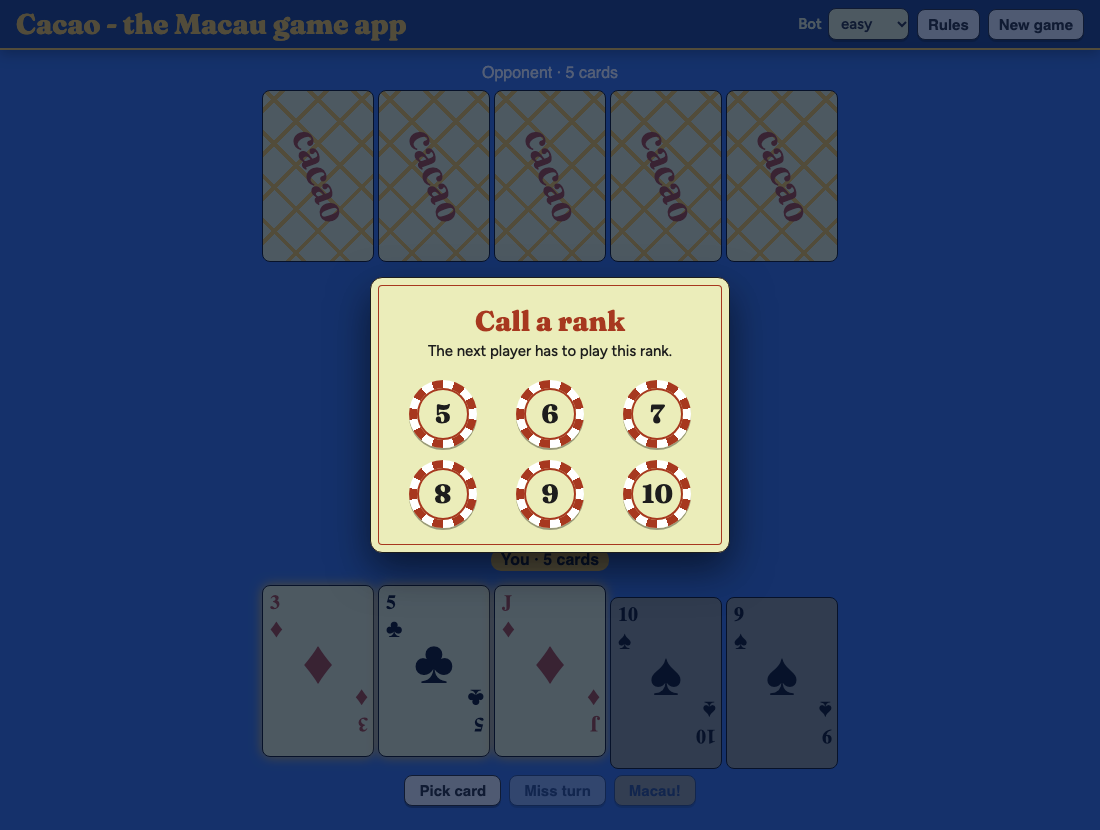
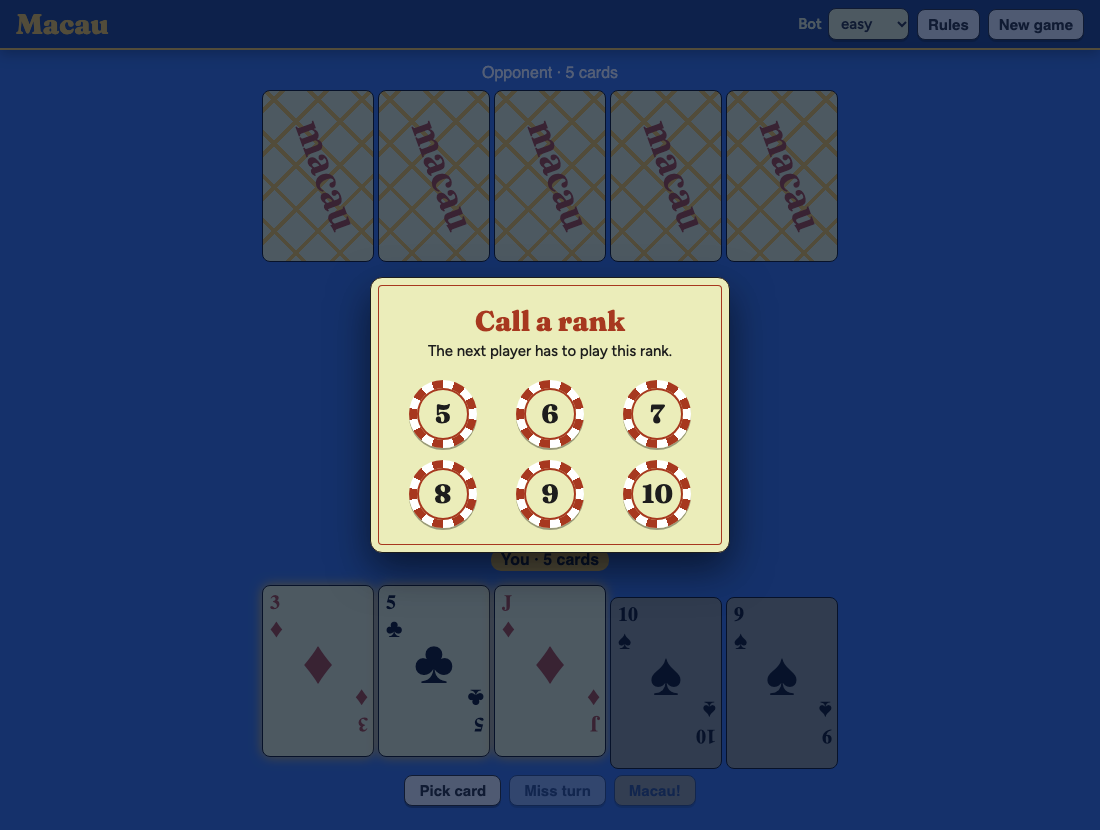
Rename the project to Macau card game
- Remove every reference to "cacao": project and package names, build
  output, CSS classes, page and header titles
- Print "macau" on the card backs
- GitHub Pages base path is /Macau-card-game/
- Retake the README screenshots

diff --git a/src/app/components/cards/card/card.component.html b/src/app/components/cards/card/card.component.html
@@ -9,11 +9,9 @@
 		[class]="{ 'suit--red': isRed, 'suit--black': isBlack }"
 		>{{ card.suit }}</span
 	>
-	<span
-		class="cacao"
-		[class]="{ 'cacao--red': isRed, 'cacao--black': isBlack }"
-		>{{ card.suit }}</span
-	>
+	<span class="pip" [class]="{ 'pip--red': isRed, 'pip--black': isBlack }">{{
+		card.suit
+	}}</span>
 	<span
 		class="suit suit--upside_down"
 		[class]="{ 'suit--red': isRed, 'suit--black': isBlack }"

diff --git a/karma.conf.js b/karma.conf.js
@@ -25,7 +25,7 @@ module.exports = function (config) {
 			suppressAll: true, // removes the duplicated traces
 		},
 		coverageReporter: {
-			dir: require("path").join(__dirname, "./coverage/cacao"),
+			dir: require("path").join(__dirname, "./coverage/macau-card-game"),
 			subdir: ".",
 			reporters: [{ type: "html" }, { type: "text-summary" }],
 		},

diff --git a/src/index.html b/src/index.html
@@ -2,7 +2,7 @@
 <html lang="en">
 	<head>
 		<meta charset="utf-8" />
-		<title>Cacao - the Macau game app</title>
+		<title>Macau card game</title>
 		<base href="/" />
 		<meta name="viewport" content="width=device-width, initial-scale=1" />
 		<link

diff --git a/src/app/app.component.html b/src/app/app.component.html
@@ -1,5 +1,5 @@
 <header class="header">
-	<h1 class="header__title">Cacao - the Macau game app</h1>
+	<h1 class="header__title">Macau</h1>
 	<div class="header__buttons">
 		<label class="header__difficulty">
 			Bot

diff --git a/src/app/components/cards/card-face-down/card-face-down.component.scss b/src/app/components/cards/card-face-down/card-face-down.component.scss
@@ -25,7 +25,7 @@
 	padding: 5px;
 }
 
-.card--face_down .cacao {
+.card--face_down .label {
 	display: block;
 	color: #a7381f;
 	font-family: "Segoe UI", serif;

diff --git a/src/app/components/cards/card-face-down/card-face-down.component.html b/src/app/components/cards/card-face-down/card-face-down.component.html
@@ -1,3 +1,3 @@
 <div class="card--face_down">
-	<span class="cacao">cacao</span>
+	<span class="label">macau</span>
 </div>

diff --git a/src/app/components/cards/card/card.component.scss b/src/app/components/cards/card/card.component.scss
@@ -24,7 +24,7 @@
 	}
 }
 
-.cacao {
+.pip {
 	display: block;
 	font-family: "Segoe UI", serif;
 	font-weight: bold;

diff --git a/README.md b/README.md
@@ -1,7 +1,6 @@
-# Cacao – Macau card game
+# Macau card game
 
-A single-player [Macau](<https://en.wikipedia.org/wiki/Macau_(card_game)>) game
-against a bot, in the browser. Get rid of all your cards before the bot does:
+A single-player Macau game against a bot, in the browser. Get rid of all your cards before the bot does:
 play a card that matches the rank or suit of the top card, or pick one from the
 deck. The special cards are listed under _Rules_ in the app, and the full game
 is described on [Wikipedia](<https://en.wikipedia.org/wiki/Macau_(card_game)>).
